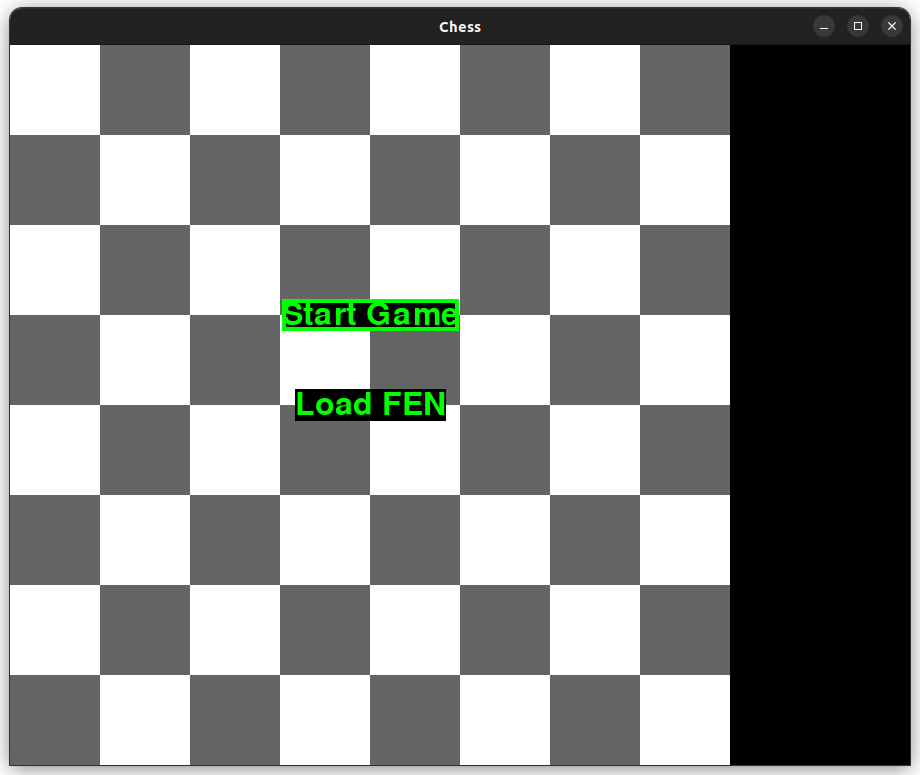
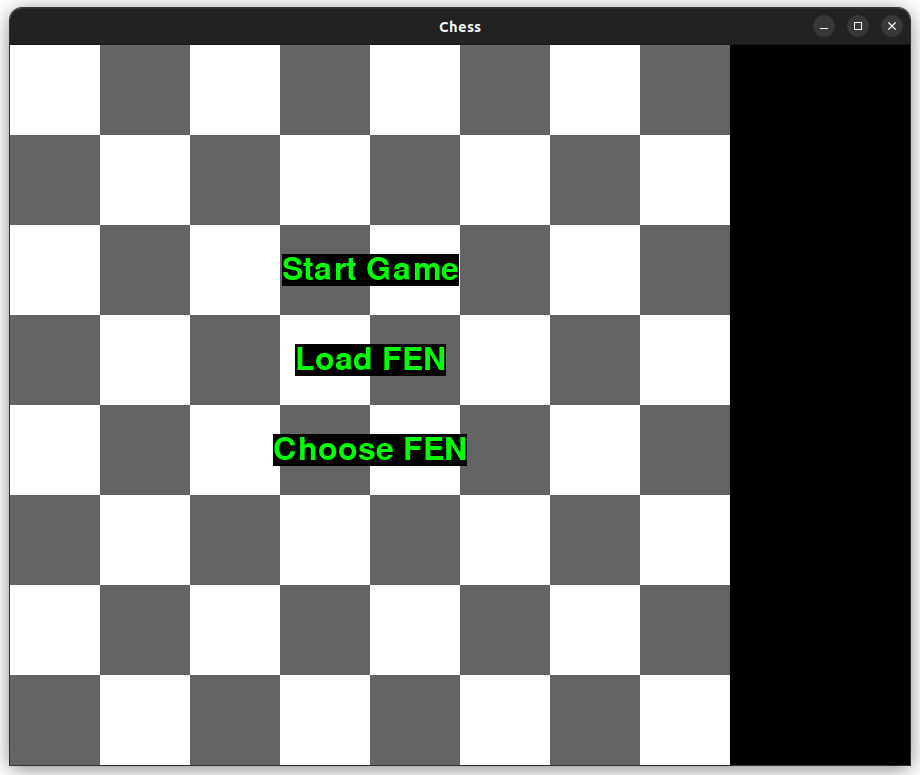
update documentation

Changed region(s): [[0.2739, 0.3097, 0.5174, 0.6194]]

diff --git a/dokumentaatio/arkkitehtuuri.md b/dokumentaatio/arkkitehtuuri.md
@@ -1,12 +1,24 @@
-## Arkkitehtuurikuvaus
+# Arkkitehtuurikuvaus
 
-### Rakenne
+## Rakenne
 
 Projektilla on seuraavanlainen pakkausrakenne:
 
 ![pakkausrakenne](./kuvat/pakkausrakenne.png)
 
 Pakkaus _ui_ sisältää käyttöliittymän koodin, _services_ sovelluslogiikan koodin ja _repositories_ tietojen tallennuksesta vastaavan koodin. _sprites_ pakkaus sisältää luokat pelissä tarvittaville nappuloille, ja _assets_ pakkaus sisältää kuvat, joista nappulat piirretään. 
+
+## Käyttöliittymä
+
+Sovelluksen käyttöliittymän eri näkymiä ovat:
+  - Alkunäkymä
+  - FEN-asetelman syöttäminen
+  - FEN-asetelman valitseminen
+  - Pelinäkymä
+  - FEN-asetelman tallentaminen
+  - Pelin päättyminen
+
+Näkymät ovat toteutettu ```Board```-luokassa. FEN-asetelman valitsemisnäkymä on osana alku- ja pelin päättymisnäkymää ja asetelman tallennus on osana pelinäkymää, muuten näkymät ovat näkyvillä yksi kerrallaan. Käyttöliittymä on pyritty pitämään erillään sovelluslogiikasta niin, että se vain kutsuu ```ChessService```- ja ```FENRepository```-luokkien metodeja. 
 
 ### Sovelluslogiikka
 
@@ -75,10 +87,75 @@ Edellä mainittujen luokkien suhdetta kuvaava luokka/pakkauskaavio:
 
 ![luokka-pakkaus-kaavio](./kuvat/luokka-pakkaus-kaavio.png)
 
+## Tietojen pysyväistallennus
 
-### Sekvenssikaavio uuden pelin aloituksesta pelin päättyessä
+Tiedot tallennetaan SQLite-tietokantaan, ja tallennus tapahtuu *repositories* pakkauksen ```FENRepository```-luokassa. Tietokantatiedoston nimi on määritelty ```.env```-konfiguraatiotiedostossa.
 
-Kun peli päättyy, pelaajalla on mahdollisuus aloittaa uusi peli klikkaamalla pelilaudalle ilmestyvää "Start New Game" tekstiä.
+Pelilaudan asetelmat tallennetaan tietokantaan ```Fen``` nimiseen tauluun, joka on alustettu ```models.py```-tiedostossa.
+
+## Päätoiminnallisuuksia sekvenssikaavioina
+
+### Pelin käynnistys syöttämällä FEN-asetelma
+
+Normaalin shakin aloitusasetelman sijaan pelilaudan voi alustaa myös muihin asetelmiin. Asetelman voi syöttää klikkaamalla alkunäkymän "Load FEN" tekstiä ja syöttämällä asetelman. Peli käynnistyy asetelmaan Enteriä painamalla.
+
+```mermaid
+sequenceDiagram
+  actor User
+  participant GameLoop
+  participant Renderer
+  participant Board
+  participant ChessService
+  User->>GameLoop: click "Load FEN" text
+  GameLoop->>GameLoop: handle_mouse_click() 
+  GameLoop->>Renderer: render()
+  Renderer->>Board: load_fen_view(display)
+  User->>GameLoop: enter FEN and press Enter
+  GameLoop->>Board: draw_pieces_from_fen()
+  activate Board
+  Board-->>GameLoop: turn
+  deactivate Board
+  GameLoop->>ChessService: initialize_Game(turn)
+```
+
+```GameLoop```-luokka reagoi pelaajan klikkaukseen ja päivittää ```Board```-luokan boolean-muuttujat niin, että seuraavan kerran kun ```GameLoop```-luokka kutsuu ```Renderer```-luokan metodia ```render```, se osaa kutsua ```Board```-luokan FEN-asetelman syöttönäkymän piirtävää metodia. Jos pelaaja onnistuu syöttämään asetelman oikein, ```Board```-luokka luo asetelman mukaiset nappulat ja käynnistää ```ChessService```-luokan avulla pelin.
+
+### Pelilaudan asetelman tallennus
+
+Pelin ollessa käynnissä "Save Board" tekstiä klikkaamalla voi syöttää nimen tallennettavalle asetelmalle ja tallentaa pelilaudan Enteriä painamalla. 
+
+```mermaid
+sequenceDiagram
+  actor User
+  participant GameLoop
+  participant Renderer
+  participant Board
+  participant ChessService
+  participant FENRepository
+  User->>GameLoop: click "Save Board" text
+  GameLoop->>GameLoop: handle_mouse_click() 
+  GameLoop->>Renderer: render()
+  Renderer->>Board: load_name_view(display)
+  User->>GameLoop: enter name and press Enter
+  GameLoop->>ChessService: turn
+  activate ChessService
+  ChessService-->>GameLoop: turn
+  deactivate ChessService
+  GameLoop->>Board: board_to_fen(turn)
+  activate Board
+  Board-->>GameLoop: fen
+  deactivate Board
+  GameLoop->>FENRepository: save_fen(fen, name)
+  activate FENRepository
+  FENRepository-->>GameLoop: None
+```
+
+```GameLoop```-luokka reagoi taas klikkaukseen päivittämällä ```Board```-luokan muuttujat ja renderöi ```Renderer```-luokan avulla käyttöliittymän näkymään asetelman nimen syötekentän. Jos nimi ei ole tyhjä merkkijono, asetelman tallennus onnistuu. ```GameLoop```-luokka selvittää ```ChessService```-luokan avulla kenen vuoroon peli jäi ja tallentaa pelilaudan asetelman ```Board```- ja ```FENRepository```-luokkien avulla tietokantaan. Käyttöliittymän näkymä palaa takaisin pelinäkymään.
+
+
+### Uuden pelin aloitus valitsemalla asetelma tietokannasta edellisen pelin päätyttyä
+
+Kun peli päättyy, pelaajalla on mahdollisuus aloittaa uusi peli klikkaamalla pelilaudalle ilmestyvää "Start New Game" tekstiä, tai valitsemalla tietokantaan tallennettu asetelma klikkaamalla "Choose FEN" tekstiä.
 
 ```mermaid
 sequenceDiagram
@@ -86,6 +163,8 @@ sequenceDiagram
   participant GameLoop
   participant ChessService
   participant Board
+  participant Renderer
+  participant FENRepository
   User->>GameLoop: play the game until checkmate
   GameLoop->>ChessService: game_over()
   activate ChessService
@@ -93,8 +172,39 @@ sequenceDiagram
   ChessService->>ChessService: checkmate(king)
   ChessService-->>GameLoop: True
   deactivate ChessService
-  GameLoop->>Board: end_game(self._display)
-  User ->> GameLoop: click "Start New Game" text
-  GameLoop ->> Board: start_game()
+  GameLoop->>Renderer:render()
+  Renderer->>Board: end_game(self._display)
+  User ->> GameLoop: click "Choose FEN" text
+  GameLoop->>FENRepository: get_fens()
+  activate FENRepository
+  FENRepository-->>GameLoop: fens
+  deactivate FENRepository
+  activate GameLoop
+  GameLoop-->>Board: fens
+  deactivate GameLoop
+  GameLoop->>Renderer: render()
+  activate Renderer
+  Renderer->>Board: choose_fen_view(display)
+  deactivate Renderer
+  User ->> GameLoop: click on a fen on the list
+  GameLoop->>FENRepository: select_fen('the name of the clicked fen')
+  activate FENRepository
+  FENRepository-->>GameLoop: fen
+  deactivate FENRepository
+  GameLoop->>Board: draw_pieces_from_fen(fen)
+  activate Board
+  Board-->>GameLoop: turn
+  deactivate Board
+  GameLoop->>ChessService: initialize_game(turn)
+  ChessService->>Board: start_game()
   Board->>Board: initialize_pieces()
 ```
+
+Kun pelin logiikasta vastaava ```ChessService```-luokka huomaa pelin päättyneen, ```Renderer```-luokka päivittää näkymän pelin päättymisnäkymään. Samoin kuin muissa toiminnallisuuksissa, klikkaamalla "Choose FEN" tekstiä ```GameLoop``` hakee ```FENRepository```:n avulla tallennetut asetelmat ja päivittää ne ```Renderer``` ja ```Board``` luokkien avulla käyttöliittmän näkymään. Klikkaamalla tallennetun asetelman nimeä ```GameLoop``` hakee ```FENRepository```:n avulla nimeä vastaavan asetelman tietokannasta ja alustaa pelilaudan sen mukaisesti ```Board``` ja ```ChessService``` luokkien avulla.
+
+## Ohjelman rakenteeseen jääneet heikkoudet
+
+### Käyttöliittymä
+
+Sovelluksen eri näkymien piirtäminen on hieman kasautunut ```Board```-luokkaan, ja sitä voisi jakaa pienempiin luokkiin. Sovelluksessa kullakin hetkellä piirrettävä näkymä valitaan eri boolean-muuttujien arvojen perusteella, ja tähän voisi olla järkevämpikin tapa toteuttaa sama asia. Pelisilmukasta vastaava ```GameLoop```-luokka myös sisältää mm. jonkin verran virheiden tarkistusta, jonka voisi toteuttaa myös muualla.
+

diff --git a/dokumentaatio/vaatimusmaarittely.md b/dokumentaatio/vaatimusmaarittely.md
@@ -1,23 +1,29 @@
-## Vaatimusmäärittely
+# Vaatimusmäärittely
 
-### Sovelluksen tarkoitus
-Sovelluksessa voi pelata kaksin pelattavaa shakkia.
+## Sovelluksen tarkoitus
+Sovelluksessa voi pelata kaksin pelattavaa shakkia. Pelin voi aloittaa normaalisti shakin aloitusasetelmasta tai pelilaudan voi alustaa halutessaan omalla asetelmalla. Sovelluksessa on myös mahdollista tallentaa keskeneräinen peli ja jatkaa sen pelaamista myöhemmin.
 
-### Suunnitellut perustoiminnallisuudet
-- Peli käynnistyy shakin aloitusasetelmaan - tehty
-- Pelaajat voivat liikuttaa vuorotellen mustia ja valkoisia nappuloita - tehty
-  - Oman vuoron jälkeen siis ainoastaan vastustajan nappuloita on mahdollista liikuttaa - tehty
-- Nappuloita voi liikuttaa vain shakin sääntöjen mukaisesti - tehty osittain (esim. sotilaiden korotus ja linnoittautuminen puuttuu)
-- Valitsemalla jonkin tietyn nappulan peli näyttää kaikki mahdolliset ruudut, joihin nappulan voi siirtää - tehty
-- Peli päättyy joko shakkimattiin, jossa toinen pelaaja voittaa, tai pattiin eli tasapeliin - tehty
-  - Sovellus ilmoittaa pelin loppumisesta - tehty
-- Pelin päätyttyä pelaajilla on mahdollisuus aloittaa uusi peli - tehty
-- Pelaaja voi keskeyttää pelin meneillään olevan pelin ja aloittaa uuden milloin vain - (oli tehtynä, mutta odottamattomista ongelmista johtuen jouduin viime hetkellä palaamaan vanhempaan versioon projektista)
+## Perustoiminnallisuudet
 
-### Mahdollisia jatkokehitysideoita
+### Ennen pelin aloitusta
+  - Pelin voi käynnistää shakin aloitusasetelmaan
+  - Pelaaja voi alustaa pelilaudan syöttämällä oman asetelmansa FEN-notaatiolla
+  - Pelaaja voi valita jonkin aiemmin tallennetuista asetelmista ja jatkaa peliä siitä
+
+### Pelin aloituksen jälkeen
+- Pelaajat voivat liikuttaa vuorotellen mustia ja valkoisia nappuloita
+  - Oman vuoron jälkeen siis ainoastaan vastustajan nappuloita on mahdollista liikuttaa
+- Nappuloita voi liikuttaa vain shakin sääntöjen mukaisesti
+    - Jotkin erikoissiirrot kuten sotilaiden korotus ja linnoittautuminen puuttuvat
+- Valitsemalla jonkin tietyn nappulan peli näyttää kaikki mahdolliset ruudut, joihin nappulan voi siirtää
+- Peli päättyy joko shakkimattiin, jossa toinen pelaaja voittaa, tai pattiin eli tasapeliin
+  - Sovellus ilmoittaa pelin loppumisesta
+- Pelin päätyttyä pelaajilla on mahdollisuus aloittaa uusi peli
+- Pelaaja voi keskeyttää meneillään olevan pelin ja aloittaa uuden milloin vain
+- Pelaaja voi tallentaa sen hetkisen pelilaudan asetelman tietokantaan
+
+## Mahdollisia jatkokehitysideoita
 - Kummankin pelaajan syödyt nappulat näkyvät pelilaudan vieressä
 - Peli varoittaa uhattuna olevaa pelaajaa shakkitilanteissa
-- (Mahdollisuus ajanottoon)
-- Pelilaudan alustus syöttämällä FEN-asetelma käsin - tehty osittain (koodissa ei ole vielä virheellisten syötteiden tarkistusta)
-- Pelilaudan sen hetkisen asetelman tallennus tietokantaan - oli tehtynä osittain, ei toimi vielä
-- Pelaaja voi milloin vain valita tallentamansa asetelman ja jatkaa pelaamista siitä - oli tehtynä osittain, ei toimi vielä
+- Mahdollisuus ajanottoon
+- Mahdollisuus luoda erillisiä käyttäjiä, joilla omat tallennetut asetelmat

diff --git a/dokumentaatio/kayttoohje.md b/dokumentaatio/kayttoohje.md
@@ -1,5 +1,7 @@
 # Käyttöohje
 
+Sovelluksen saa käyttöön lataamalla viimeisimmän releasen lähdekoodin.
+
 ## Pelin käynnistäminen
 
 Varmista ensin, että olet pygame-chess hakemistossa.
@@ -13,7 +15,7 @@ Nyt sovelluksen voi käynnistää komennolla
 poetry run invoke start
 ```
 
-## Pelin aloitus
+### Pelin aloitus
 
 Sovellus käynnistyy aloitusnäkymään:
 
@@ -21,10 +23,28 @@ Sovellus käynnistyy aloitusnäkymään:
 
 Klikkaamalla "Start Game" tekstiä peli käynnistyy shakin aloitusasetelmaan.
 
-## FEN-asetelman syöttö
+### FEN-asetelman syöttö
 
 Klikkaamalla aloitusnäkymän "Load FEN" tekstiä pelilaudan voi alustaa omalla asetelmallaan.
 
 ![load-FEN](./kuvat/load_fen.png)
 
 Kun asetelma on syötetty, peli käynnistyy annettuun asetelmaan Enteriä painamalla. Pelilaudalla voi liikkua sekä näppäimistön nuolinäppäimillä, että hiirellä klikkailemalla. Näppäimistöltä nappulan voi valita Enterillä.
+
+### Asetelman valitseminen tietokannasta
+
+Klikkaamalla aloitusnäkymän "Choose FEN" tekstiä pelilaudan voi alustaa tietokantaan tallennetusta asetelmasta. Jos tietokannassa ei ole yhtään tallennettua asetelmaa, näyttää sovellus asianmukaisen ilmoituksen. Asetelman vieressä olevasta "Delete" napista painamalla asetelman voi poistaa tietokannasta.
+
+![choose-FEN](./kuvat/choose_FEN.png)
+
+### Pelilaudan asetelman tallennus
+
+Pelin ollessa käynnissä pelilaudan asetelman voi tallentaa klikkaamalla pelilaudan vieressä olevaa "Save Board" tekstiä. Näkymän saa piiloon klikkaamalla "Save Board" tekstiä uudelleen. Asetelmalle ei voi antaa sellaista nimeä, joka on jo tallennettuna tietokantaan.
+
+![save-board](./kuvat/save_board.png)
+
+### Uuden pelin aloitus
+
+Pelin ollessa käynnissä tai pelin päätyttyä takaisin sovelluksen alkunäkymään pääsee klikkaamalla "Start New Game" tekstiä. Pelin päätyttyä uuden asetelman voi myös valita tietokannasta "Choose FEN" tekstiä klikkaamalla.
+
+![game-over](./kuvat/game_over.png)

diff --git a/dokumentaatio/testaus.md b/dokumentaatio/testaus.md
@@ -1,0 +1,33 @@
+# Testausdokumentti
+
+Sovellusta on testattu automatisoiduilla yksikkö- ja integraatiotesteillä sekä manuaalisesti järjestelmätasolla.
+
+## Yksikkö- ja integraatiotestaus
+
+### Sovelluslogiikka
+
+Pelin logiikasta vastaavaa ```ChessService```-luokkaa on testattu ```TestChessService```-luokalla. Testeissä ```ChessService```-olio alustetaan injektoimalla sille riippuvuudeksi ```Board```-luokan olio, jonka kautta nappuloihin pääsee käsiksi.
+
+### Repositorio-luokka
+
+Tietokantaoperaatioista vastaavaa ```FENRepository```-luokkaa testataan ```TestFENRepository```-luokassa luomalla erillinen testitietokanta, jonka nimi on konfiguroitu ```.env.test```-tiedostoon.
+
+### Testikattavuus
+
+Käyttöliittymän koodia lukuunottamatta sovelluksen testien haaraumakattavuus on 97%
+
+![testikattavuus](./kuvat/testikattavuus.png)
+
+Testaamatta jäi mm. tilanne, jossa ```.env```-tiedostoa ei löytynyt, ja ```ChessService```-luokan *initialize_game*-metodi.
+
+## Järjestelmätestaus
+
+Järjestelmätasolla sovellusta on testattu manuaalisesti. 
+
+### Asennus ja konfigurointi
+
+Sovellus on ladattu ja testattu käyttöohjeen mukaisesti Linux-ympäristössä. Sovellusta on testattu tilanteessa, jossa tietokantatiedostoja ei ole ollut olemassa ja ohjelma on luonut ne itse, sekä tilanteissa, joissa ne ovat olleet olemassa.
+
+### Toiminnallisuudet
+
+Kaikki vaatimusmäärittelyssä määritellyt toiminnallisuudet on testattu. Niitä toiminnallisuuksia, jotka sisältävät käyttäjän syöttämää tekstiä, on testattu myös virheellisillä syötteillä.

diff --git a/dokumentaatio/tuntikirjanpito.md b/dokumentaatio/tuntikirjanpito.md
@@ -24,4 +24,9 @@
 | 29.4. | 2 | sovelluslogiikan testausta |
 || 2 | koodin refaktorointia ja käyttöliittymän muokkausta |
 | 30.4. | 5 | koodin refaktorointia, testausta, käyttöliittymän muokkausta, dokumentointia |
-| Yhteensä: | 73 |
+| 3.5. | 2 | pelilaudan asetelman tallennus tietokantaan ja tallennettujen asetelmien haku käyttöliittymän kautta |
+| 7.5. | 2 | sqlalchemy & alembic käyttöön, tietokantaoperaatiot asetelmien tallennukseen ja hakuun, mahdollisuus alustaa pelilauta aikaisemmin tallennetusta asetelmasta |
+| 8.5. | 2 | mahdollisuus poistaa tallennettu asetelma tietokannasta |
+| 9.5. | 3 | käyttöliittymän muokkausta, virheilmoitukset väärillä syötteillä, manuaalista testausta ja virheiden korjausta |
+| 10.5. | 8 | käyttöliittymän muokkausta, manuaalista testausta ja virheiden korjausta, tietokannan testausta, dokumentointia |
+| Yhteensä: | 90 |

diff --git a/dokumentaatio/changelog.md b/dokumentaatio/changelog.md
@@ -36,3 +36,9 @@
 - Lisätty sovelluksen alkunäkymään mahdollisuus alustaa pelilauta omalla FEN-asetelmalla
     - Asetelma tulee olla kirjoitettuna FEN-notaatiolla, jossa on nappulat ja se kenen vuorolla aloitetaan (esim. "rnbqkbnr/pppppppp/8/8/8/8/PPPPPPPP/RNBQKBNR w")
 - FENRepository-luokka vastaa tietokantaoperaatioista
+
+## Viikko 7
+- Lisätty sovelluksen alkunäkymään mahdollisuus alustaa pelilauta aiemmin tallennetusta asetelmasta
+- Lisätty mahdollisuus tallentaa pelilaudan asetelma tietokantaan
+- Lisätty mahdollisuus palata sovelluksen alkunäkymään ja aloittaa uusi peli myös kesken pelin
+- Testattu, että FENRepository-luokan tietokantaoperaatiot toimivat oikein
